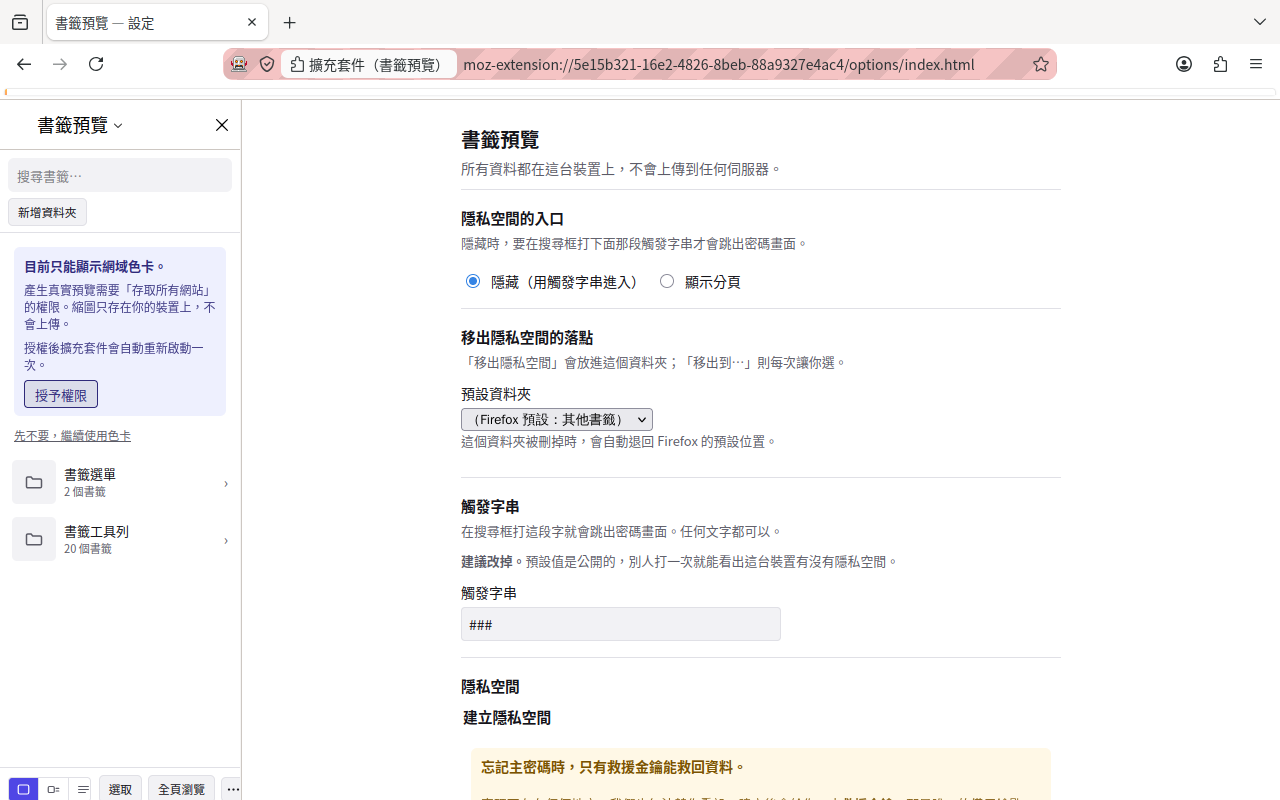
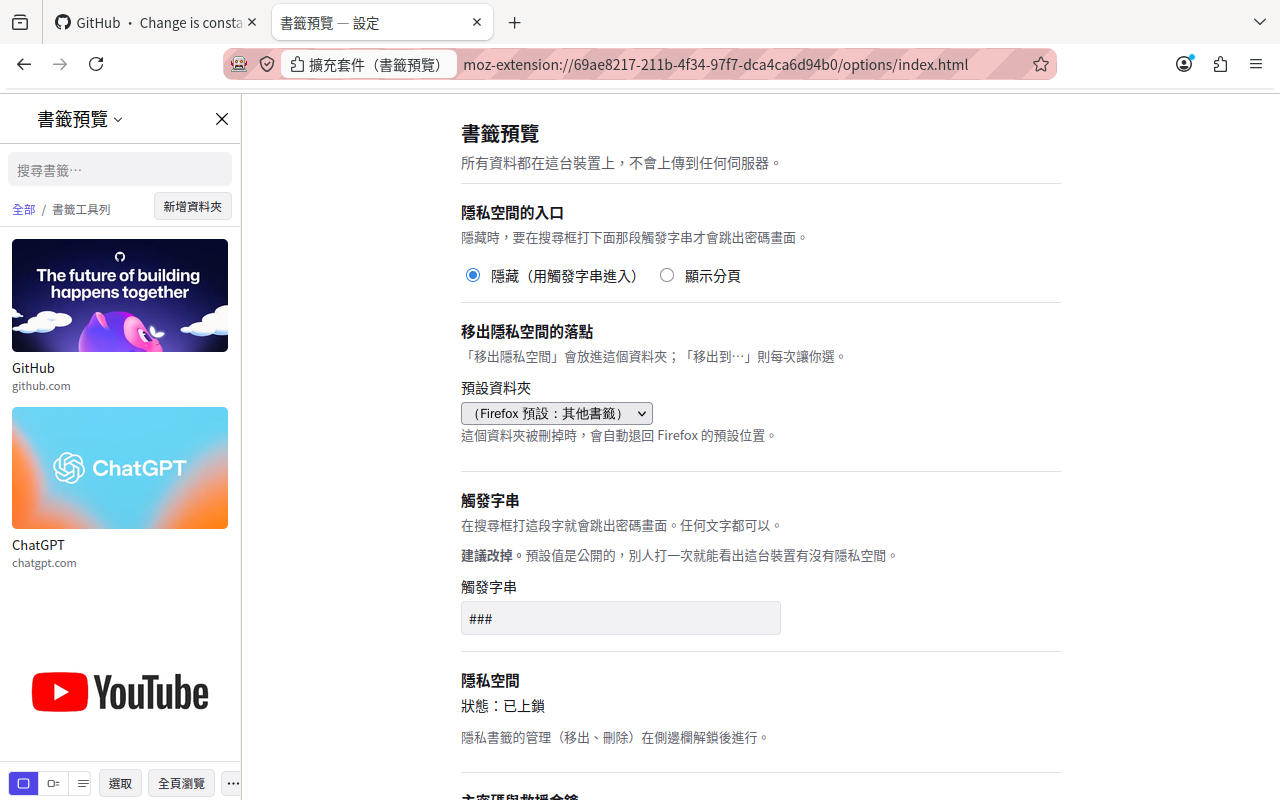
docs(amo): reshoot the store screenshots with well-known sites
The four screenshots used the test profile's seed bookmarks, whose top
level is nine 127.0.0.1 cover-heuristic fixtures — noise to a store
visitor. Add SEED_SHOWCASE=1 to test-headless.sh (alongside the existing
SEED_BULK) so the shoot is repeatable: GitHub, ChatGPT, YouTube,
Wikipedia, Google, Hacker News, MDN, Stack Overflow and two folders.

Every preview is really fetched — og:image via backfill, and a real
capture for the sites that have none. Two cards are deliberately left as
colour placeholders (MDN, Stack Overflow): that is what the fallback
actually looks like, and the screenshots should not imply every bookmark
gets an image.

Also fixes a flaw in store-shot.sh that was present in all four previous
screenshots: CHROME_H overshot by 6px, leaving the sandbox notice's
orange accent stripe stranded on the seam. The heights are now measured
(89 / 51) and the sampling command is in the comments.

diff --git a/amo/README.md b/amo/README.md
@@ -51,16 +51,23 @@
 用 `.claude/skills/firefox-e2e/` 那套無頭 Firefox 環境拍的，流程是：
 
 ```bash
-npm run build && ./scripts/ff.sh start          # 乾淨的測試 profile
+npm run build && SEED_SHOWCASE=1 ./scripts/ff.sh start   # 乾淨 profile + 展示用書籤
 # about:addons → 權限與資料 → 開啟「存取您所有網站中的資料」
-# 造訪幾個已加入書籤的網站，讓擷取管線抓到真實的預覽圖
+# 側邊欄 ⋯ → 補抓預覽圖（抓 og:image），再造訪幾個沒有 og:image 的站讓它截圖
 ./scripts/ff.sh shot <名稱>                      # 整個畫面
 ./scripts/store-shot.sh <名稱> <輸出名稱>         # 裁成 1280x800
 ```
 
+`SEED_SHOWCASE=1`（`scripts/test-headless.sh`）換上一組知名網站的書籤 —— GitHub、ChatGPT、
+YouTube、Wikipedia、Google 之類的。預設那組是為了**測試**挑的，最上層塞著九筆
+`127.0.0.1` 的封面判定素材，對商店頁的讀者只是雜訊。
+
+**預覽圖必須是真的抓下來的。** 補抓走的是各站自己的 og:image，沒有 og:image 的（Google
+首頁、Hacker News）就造訪一次讓擷取管線截圖。目前四張裡有兩筆刻意留成色卡（MDN 與
+Stack Overflow）—— 那是沒有預覽圖時的實際樣子，截圖不該假裝每一筆都有圖。
+
 `scripts/store-shot.sh` 會把「已停用安全沙盒」那條提示列去掉 —— 那是**容器環境專屬**的
 產物（容器裡建不了 user namespace，測試時只好關掉沙盒），一般使用者不會看到它。
-做法是把它上下兩段接起來，不動其他任何像素。
-
-**建議送審前用你自己的書籤重拍一次。** 現在這幾張用的是測試 profile 的種子書籤，
-內容能表達功能，但用真實的收藏拍出來的畫面說服力高得多。
+做法是把它上下兩段接起來，不動其他任何像素。**那兩個高度是量出來的，改視窗尺寸或
+Firefox 版本後要重量一次**：提示列最左邊有一條橘色強調直條，只要多算幾個像素就會留在
+接縫上（腳本註解裡有取樣的指令）。

diff --git a/NEXT.md b/NEXT.md
@@ -1,6 +1,6 @@
 # 接手指南 / 待辦
 
-最後更新：2026-08-07（第三輪。**大部分 ⬜ 都清掉了**，剩 M4 那五條刻意延後的與「移出到…」。下一步是重拍截圖與送審）
+最後更新：2026-08-07（第三輪。**大部分 ⬜ 清掉了、截圖也重拍了**，剩 M4 那五條刻意延後的與「移出到…」。下一步就是送審本身）
 
 給下一個 session 的交接文件。設計背景讀 [PLAN.md](PLAN.md)；操作與架構已拆成英文的
 [`docs/`](docs/)（architecture、vault、previews、interface、sync-and-backup、permissions、
@@ -43,13 +43,15 @@ development 七份），[README.md](README.md) 只留簡介。
 去讀截圖或改程式碼 —— 那段空檔本身就會讓系統閒置而先觸發上鎖，看起來像是在測的那條路生效了。
 我第一次跑就是這樣拿到一組無效的資料。
 
-### 2. 用真實書籤重拍截圖
+### 2. ✅ 重拍截圖（2026-08-07 第三輪做完）
 
-現在 `amo/screenshots/` 那四張用的是測試 profile 的種子書籤，內容能表達功能，但用真實的
-收藏拍出來說服力高得多。流程與 `scripts/store-shot.sh` 的用法寫在 `amo/README.md`。
+四張都用 `SEED_SHOWCASE=1` 那組知名網站書籤重拍了（GitHub、ChatGPT、YouTube、Wikipedia、
+Google、Hacker News…），預覽圖全部是真的抓下來的：有 og:image 的走補抓，沒有的（Google
+首頁、Hacker News）造訪一次讓擷取管線截圖。**刻意留了兩筆色卡**（MDN 與 Stack Overflow）——
+那是沒有預覽圖時的實際樣子，截圖不該假裝每一筆都有圖。
 
-注意 01～03 是**文案精簡之前**拍的。它們沒有拍到被改動的文字（側邊欄清單、網格、解鎖畫面），
-所以仍然正確；但既然要重拍就一起拍。
+順手修掉 `store-shot.sh` 的一個瑕疵：`CHROME_H` 多算了 6px，於是沙盒提示列最左邊那條**橘色
+強調直條**會留在接縫上（四張舊截圖都有）。現在改成量出來的 89 / 51，腳本註解裡寫了取樣指令。
 
 ### 3. 送審
 
